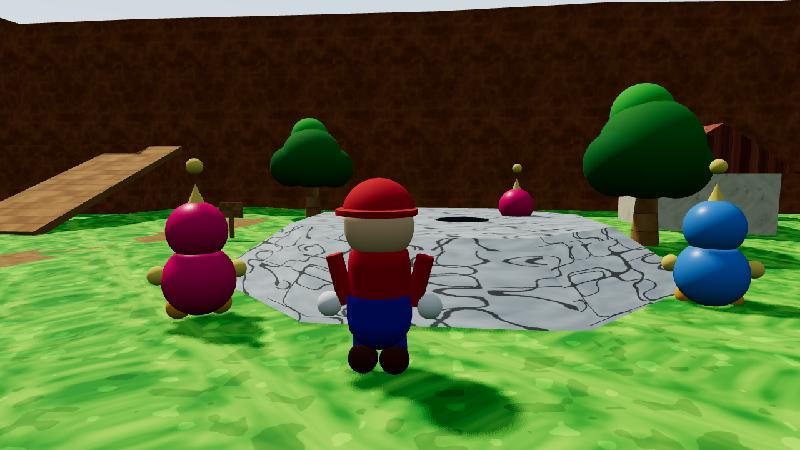
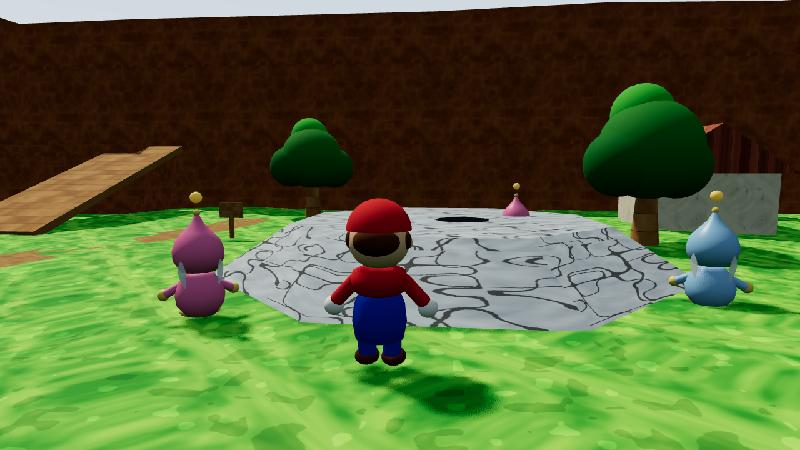
Model the Keeper and Nubbins properly in the HD-port 3D sample, add a close-up view
Lathe-built bodies, real faces, cap, gloves and shoes for the Keeper; Chao-shaped
Nubbins with crown, wings and emote ball; ?retro3d=5&closeup.

diff --git a/src/samples/retro-styles.ts b/src/samples/retro-styles.ts
@@ -604,10 +604,14 @@ function populate(b: Build): void {
   tree(b, 22, 7, 1);
   tree(b, -24, 8, 1.2);
   tree(b, 8, 24, 1.1);
-  nubbin(b, 4.2, 2.2, '#ff2a88', 0.6);
-  nubbin(b, -3.5, 10.5, '#ff2a88', 0.1);
-  nubbin(b, -7, 4, '#4aa0ff', -0.4);
-  keeper(b);
+  const fine = b.look.style === 'hdport' || b.look.style === 'dreamcast';
+  const closeup = fine && new URLSearchParams(location.search).has('closeup');
+  const nub = fine ? nubbinFine : nubbin;
+  nub(b, 4.2, 2.2, '#ff8ac0', closeup ? Math.PI + 0.25 : 0.6);
+  nub(b, -3.5, 10.5, '#ff8ac0', 0.1);
+  nub(b, -7, 4, '#9ad0ff', -0.4);
+  if (fine) keeperFine(b, closeup ? Math.PI - 0.57 : 0);
+  else keeper(b);
 }
 
 // ---------------------------------------------------------------- mounting
@@ -676,7 +680,8 @@ export function mountRetroSample(canvas: HTMLCanvasElement, style: RetroStyle): 
   }
 
   // The Lakitu camera: low, behind the Keeper, drifting a little.
-  const camera = new THREE.PerspectiveCamera(50, 16 / 9, 0.1, 220);
+  const closeup = new URLSearchParams(location.search).has('closeup');
+  const camera = new THREE.PerspectiveCamera(closeup ? 40 : 50, 16 / 9, 0.1, 220);
 
   // Low-res rendering through a render target, blitted to the canvas.
   let rt: THREE.WebGLRenderTarget | null = null;
@@ -715,8 +720,13 @@ export function mountRetroSample(canvas: HTMLCanvasElement, style: RetroStyle): 
   const loop = () => {
     const t = (performance.now() - t0) / 1000;
     const a = Math.sin(t * 0.25) * 0.18;
-    camera.position.set(Math.sin(a) * -7.5, 3.1, Math.cos(a) * -7.5);
-    camera.lookAt(Math.sin(a) * 2, 1.6, 6);
+    if (closeup) {
+      camera.position.set(2.6 + Math.sin(a), 2.1, -4.0);
+      camera.lookAt(1.1, 1.45, 0.6);
+    } else {
+      camera.position.set(Math.sin(a) * -7.5, 3.1, Math.cos(a) * -7.5);
+      camera.lookAt(Math.sin(a) * 2, 1.6, 6);
+    }
     for (const s of b.sprites) s.material.rotation = 0;
     if (rt) {
       renderer.setRenderTarget(rt);
@@ -735,4 +745,234 @@ export function mountRetroSample(canvas: HTMLCanvasElement, style: RetroStyle): 
     rt?.dispose();
     renderer.dispose();
   };
+}
+
+// ---------------------------------------------------------------- the modelled characters
+
+/** A smooth solid of revolution from a radius profile (radius, height), y up. */
+function lathe(profile: Array<[number, number]>, segments = 32): THREE.LatheGeometry {
+  const pts = profile.map(([r, y]) => new THREE.Vector2(r, y));
+  const g = new THREE.LatheGeometry(pts, segments);
+  g.computeVertexNormals();
+  return g;
+}
+
+function part(
+  b: Build,
+  g: THREE.Group,
+  geo: THREE.BufferGeometry,
+  color: string,
+  shiny = false,
+): THREE.Mesh {
+  const m = mesh(b, geo, 'white', color, shiny);
+  b.scene.remove(m);
+  g.add(m);
+  return m;
+}
+
+/**
+ * A Chao-faithful Nubbin: a round belly that tucks in at the neck, a head that rises
+ * to the pointed crown, big dark eyes with a catchlight, yellow tips on hands and feet,
+ * little wings and the emote ball.
+ */
+function nubbinFine(b: Build, x: number, z: number, body: string, facing: number): void {
+  const g = new THREE.Group();
+  const tip = '#ffe066';
+  part(
+    b,
+    g,
+    lathe([
+      [0, 0.05],
+      [0.42, 0.08],
+      [0.66, 0.4],
+      [0.7, 0.7],
+      [0.6, 1.05],
+      [0.38, 1.3],
+      [0.3, 1.38],
+      [0, 1.4],
+    ]),
+    body,
+    true,
+  );
+  const head = part(
+    b,
+    g,
+    lathe([
+      [0, 0],
+      [0.5, 0.1],
+      [0.7, 0.42],
+      [0.72, 0.7],
+      [0.62, 1.0],
+      [0.4, 1.25],
+      [0.18, 1.5],
+      [0.06, 1.75],
+      [0, 1.85],
+    ]),
+    body,
+    true,
+  );
+  head.position.y = 1.3;
+  const crownTip = part(b, g, new THREE.SphereGeometry(0.1, 12, 10), tip);
+  crownTip.position.y = 3.1;
+  for (const dx of [-0.25, 0.25]) {
+    const eye = part(b, g, new THREE.SphereGeometry(0.15, 18, 14), '#141a3a', true);
+    eye.scale.set(1, 1.6, 0.55);
+    eye.position.set(dx, 2.0, 0.6);
+    eye.rotation.y = dx * 0.5;
+    const light = part(b, g, new THREE.SphereGeometry(0.05, 10, 8), '#ffffff');
+    light.position.set(dx - 0.04, 2.12, 0.72);
+  }
+  for (const dx of [-0.4, 0.4]) {
+    const cheek = part(b, g, new THREE.SphereGeometry(0.09, 12, 10), '#ffb3c8');
+    cheek.scale.set(1, 0.6, 0.4);
+    cheek.position.set(dx, 1.82, 0.58);
+  }
+  const smile = part(b, g, new THREE.TorusGeometry(0.1, 0.02, 8, 16, Math.PI), '#6a3a4a');
+  smile.position.set(0, 1.78, 0.7);
+  smile.rotation.z = Math.PI;
+  for (const dx of [-1, 1]) {
+    const arm = part(b, g, new THREE.CapsuleGeometry(0.13, 0.42, 6, 14), body, true);
+    arm.position.set(dx * 0.72, 0.85, 0.15);
+    arm.rotation.z = dx * 1.1;
+    const hand = part(b, g, new THREE.SphereGeometry(0.17, 14, 12), tip, true);
+    hand.position.set(dx * 0.98, 0.72, 0.2);
+    const foot = part(b, g, new THREE.SphereGeometry(0.24, 16, 12), tip, true);
+    foot.scale.set(1, 0.6, 1.3);
+    foot.position.set(dx * 0.34, 0.14, 0.22);
+    const wingShape = new THREE.Shape();
+    wingShape.moveTo(0, 0);
+    wingShape.quadraticCurveTo(0.35, 0.5, 0.1, 0.8);
+    wingShape.quadraticCurveTo(-0.15, 0.5, 0, 0);
+    const wing = part(b, g, new THREE.ShapeGeometry(wingShape, 12), '#ffffff');
+    wing.material = new THREE.MeshStandardMaterial({
+      color: '#eef6ff',
+      transparent: true,
+      opacity: 0.85,
+      side: THREE.DoubleSide,
+    });
+    wing.position.set(dx * 0.45, 1.0, -0.62);
+    wing.rotation.y = dx * -0.7;
+    wing.scale.x = dx;
+  }
+  const ball = part(b, g, new THREE.SphereGeometry(0.17, 18, 14), tip, true);
+  ball.position.y = 3.55;
+  (ball.material as THREE.MeshStandardMaterial).emissive = new THREE.Color('#6a5010');
+  g.position.set(x, 0, z);
+  g.rotation.y = facing;
+  g.scale.setScalar(0.72);
+  b.scene.add(g);
+  blob(b, x, z, 0.8);
+}
+
+/**
+ * The Keeper, modelled: a cartoon head on a lathe-built shirt and overalls with
+ * straps and buttons, hair under the cap, eyes with pupils and catchlights, a nose,
+ * ears, gloves and rounded shoes.
+ */
+function keeperFine(b: Build, facing: number): void {
+  const g = new THREE.Group();
+  const skin = '#ffd0a8';
+  const red = '#e03030';
+  const blue = '#2a4ad0';
+  part(
+    b,
+    g,
+    lathe([
+      [0.36, 0.55],
+      [0.5, 0.6],
+      [0.56, 0.95],
+      [0.52, 1.3],
+      [0.44, 1.5],
+      [0.4, 1.56],
+      [0, 1.56],
+    ]),
+    blue,
+  );
+  part(
+    b,
+    g,
+    lathe([
+      [0.4, 1.5],
+      [0.52, 1.58],
+      [0.58, 1.78],
+      [0.54, 1.98],
+      [0.34, 2.08],
+      [0, 2.08],
+    ]),
+    red,
+  );
+  for (const dx of [-0.22, 0.22]) {
+    const strap = part(b, g, new THREE.BoxGeometry(0.13, 0.6, 0.08), blue);
+    strap.position.set(dx, 1.78, 0.46);
+    strap.rotation.x = 0.25;
+    const button = part(b, g, new THREE.CylinderGeometry(0.06, 0.06, 0.03, 12), '#ffe066', true);
+    button.rotation.x = Math.PI / 2;
+    button.position.set(dx, 1.52, 0.56);
+  }
+  const head = part(b, g, new THREE.SphereGeometry(0.62, 32, 24), skin);
+  head.position.y = 2.6;
+  head.scale.set(1, 0.95, 0.98);
+  for (const dx of [-1, 1]) {
+    const side = part(b, g, new THREE.SphereGeometry(0.17, 14, 12), '#6a3a18');
+    side.scale.set(0.6, 1.1, 0.9);
+    side.position.set(dx * 0.56, 2.62, -0.12);
+  }
+  const back = part(b, g, new THREE.SphereGeometry(0.42, 18, 14), '#6a3a18');
+  back.scale.set(1.1, 0.7, 0.7);
+  back.position.set(0, 2.62, -0.42);
+  for (const dx of [-0.3, 0, 0.3]) {
+    const fringe = part(b, g, new THREE.SphereGeometry(0.12, 12, 10), '#6a3a18');
+    fringe.scale.set(1, 0.5, 0.7);
+    fringe.position.set(dx, 2.96, 0.52);
+  }
+  const cap = part(
+    b,
+    g,
+    new THREE.SphereGeometry(0.66, 32, 16, 0, Math.PI * 2, 0, Math.PI * 0.48),
+    red,
+  );
+  cap.position.set(0, 2.78, -0.02);
+  const brim = part(b, g, new THREE.CylinderGeometry(0.5, 0.5, 0.07, 24), red);
+  brim.scale.set(1, 1, 0.7);
+  brim.position.set(0, 3.0, 0.5);
+  brim.rotation.x = -0.15;
+  const badge = part(b, g, new THREE.CylinderGeometry(0.13, 0.13, 0.04, 16), '#ffffff');
+  badge.rotation.x = Math.PI / 2 - 0.3;
+  badge.position.set(0, 3.12, 0.6);
+  for (const dx of [-0.2, 0.2]) {
+    const white = part(b, g, new THREE.SphereGeometry(0.13, 18, 14), '#ffffff');
+    white.scale.set(0.8, 1.3, 0.6);
+    white.position.set(dx, 2.68, 0.6);
+    const pupil = part(b, g, new THREE.SphereGeometry(0.07, 14, 12), '#1a3a9a', true);
+    pupil.scale.set(0.9, 1.2, 0.6);
+    pupil.position.set(dx + (dx > 0 ? -0.02 : 0.02), 2.67, 0.68);
+    const light = part(b, g, new THREE.SphereGeometry(0.03, 8, 6), '#ffffff');
+    light.position.set(dx + 0.02, 2.74, 0.73);
+    const ear = part(b, g, new THREE.SphereGeometry(0.11, 12, 10), skin);
+    ear.scale.set(0.5, 1, 0.8);
+    ear.position.set(dx * 3.1, 2.56, -0.02);
+  }
+  const nose = part(b, g, new THREE.SphereGeometry(0.15, 16, 12), '#ffc090');
+  nose.scale.set(1, 0.85, 1);
+  nose.position.set(0, 2.5, 0.68);
+  const mouth = part(b, g, new THREE.TorusGeometry(0.12, 0.025, 8, 16, Math.PI), '#8a3a3a');
+  mouth.position.set(0, 2.3, 0.6);
+  mouth.rotation.z = Math.PI;
+  mouth.rotation.x = -0.3;
+  for (const dx of [-1, 1]) {
+    const arm = part(b, g, new THREE.CapsuleGeometry(0.15, 0.55, 6, 16), red);
+    arm.position.set(dx * 0.7, 1.55, 0.08);
+    arm.rotation.z = dx * 0.75;
+    const glove = part(b, g, new THREE.SphereGeometry(0.21, 18, 14), '#ffffff');
+    glove.position.set(dx * 0.98, 1.2, 0.14);
+    const leg = part(b, g, new THREE.CapsuleGeometry(0.19, 0.3, 6, 16), blue);
+    leg.position.set(dx * 0.26, 0.42, 0);
+    const shoe = part(b, g, new THREE.SphereGeometry(0.26, 18, 14), '#6a3010');
+    shoe.scale.set(1, 0.62, 1.35);
+    shoe.position.set(dx * 0.28, 0.16, 0.1);
+  }
+  g.rotation.y = facing;
+  g.scale.setScalar(0.78);
+  b.scene.add(g);
+  blob(b, 0, 0, 0.7);
 }

diff --git a/PROGRESS.md b/PROGRESS.md
@@ -47,6 +47,17 @@ geometry and textures once at N64 simplicity (1), then ship 5 as the default loo
 with 1 and 2 as selectable "retro" filters, since they are post-processing on the
 same scene.
 
+Maor liked 5 but found the character "too blocky, not a great sprite". The HD port (and
+the Dreamcast sample) now carry modelled characters (`nubbinFine`, `keeperFine` in
+`retro-styles.ts`): the Keeper is a cartoon head on lathe-built shirt and overalls
+with straps and buttons, a cap with a badge and brim, sideburns and a fringe, eyes
+with pupils and catchlights, a nose, ears, a smile, gloves and rounded shoes; the
+Nubbins are Chao-faithful, a round belly tucking in at the neck, a head drawn up to
+the pointed crown, big dark almond eyes with a catchlight, cheeks, a smile, yellow
+tips on hands and feet, wings and the emote ball. `?retro3d=5&closeup` frames them
+from the front (`docs/samples/retro-5-closeup.jpg`); the Lakitu view is
+`retro-5-hdport.jpg` again.
+
 ## Five directions for a full-3D Grove (2026-10-15, for Maor's pick)
 
 Maor: "conceptualize an upgrade to the graphics. Leave the existing assets, add a toggle
